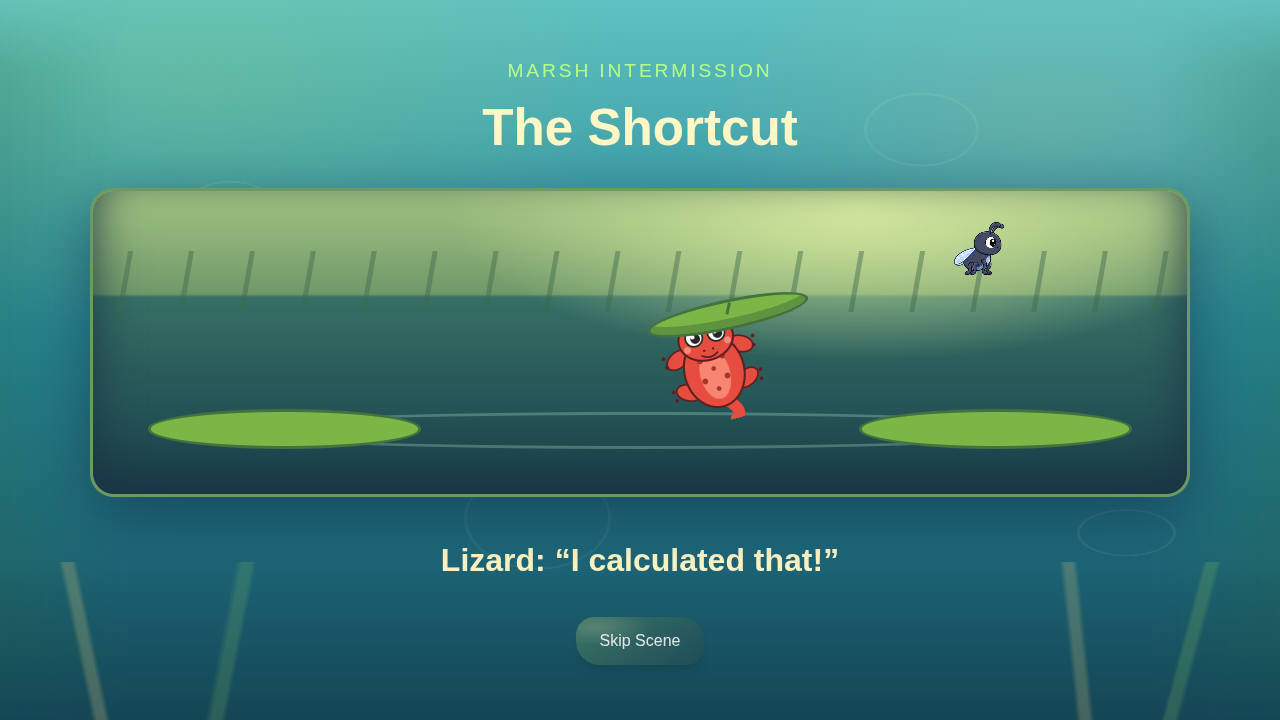
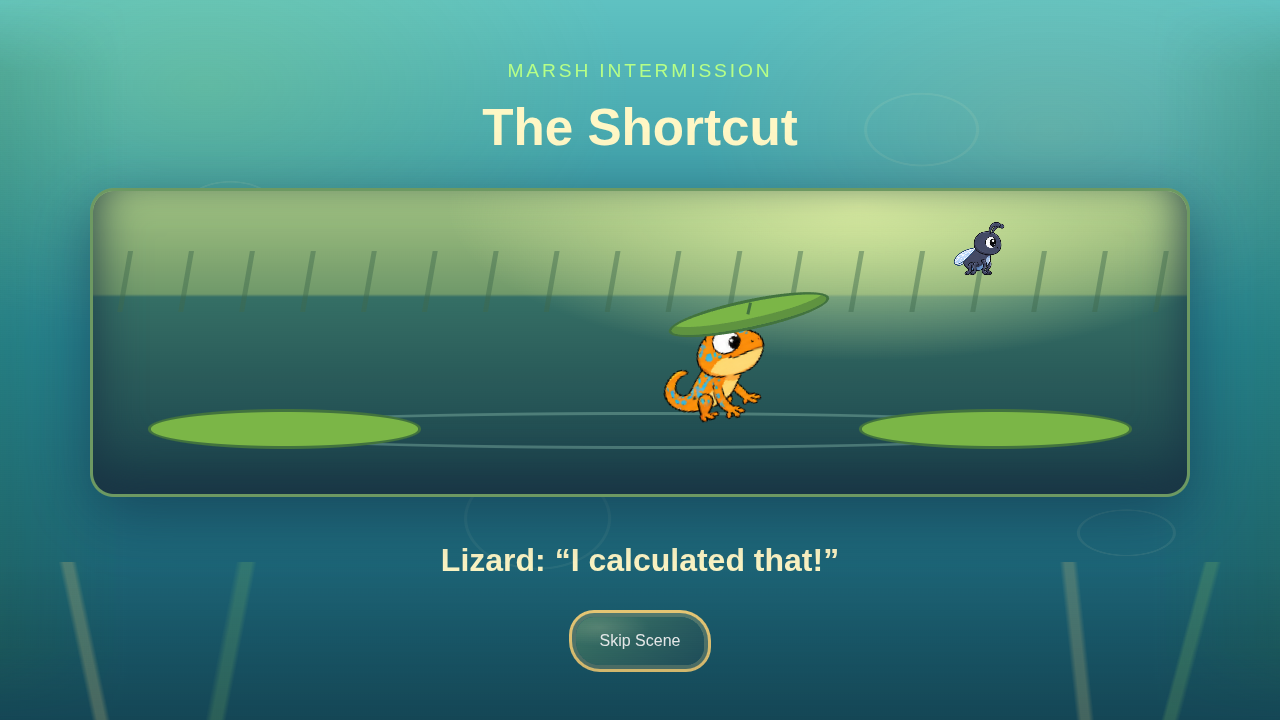
Use gameplay Lizard sprite in skits and remove obsolete SVG

Changed region(s): [[0.5, 0.3972, 0.6562, 0.5806], [0.4375, 0.825, 0.5625, 0.9472]]

diff --git a/src/ui/screens/skitScreen.ts b/src/ui/screens/skitScreen.ts
@@ -1,5 +1,5 @@
 import spiderImage from '../../assets/images/spider.png';
-import lizardImage from '../../assets/images/lizard.svg';
+import lizardWalkSide from '../../assets/lizard-walk-side.png';
 import type { AdditionalSkitPresentation } from '../../ecs/additionalSkits';
 import flySide from '../../assets/images/fly-move-side.png';
 import frogSide from '../../assets/images/frog-hop-side.png';
@@ -24,7 +24,7 @@ export const createSkitScreenSpec = function(skip: () => void): ScreenSpec {
 						<div id="scene-diagram" class="scene-diagram">↑<br>← ● →</div>
 						<div id="scene-tongue" class="skit-tongue"></div>
 						<div id="scene-frog" class="scene-actor scene-frog" style="background-image:url('${frogSide}')"></div>
-						<div id="scene-lizard" class="scene-actor" style="background-image:url('${lizardImage}')"></div>
+						<div id="scene-lizard" class="scene-actor scene-lizard" style="background-image:url('${lizardWalkSide}')"></div>
 						<div id="scene-spider" class="scene-actor" style="background-image:url('${spiderImage}')"></div>
 						<div id="scene-fly" class="scene-actor scene-fly" style="background-image:url('${flySide}')"></div>
 						<div id="scene-pad" class="skit-pad"></div><div id="scene-splash" class="scene-splash">SPLASH!</div>
@@ -130,7 +130,10 @@ const updateAdditionalScene = function(root: HTMLElement, view: AdditionalSkitPr
 	if (root.dataset.scene === 'the-shortcut' && view.lizard.visible && view.pad.tilt < 0) {
 		const lizard = root.querySelector<HTMLElement>('#scene-lizard');
 		const pad = root.querySelector<HTMLElement>('#scene-pad');
-		if (lizard && pad) pad.style.top = `${lizard.offsetTop - lizard.offsetWidth * .8}px`;
+		if (lizard && pad) {
+			pad.style.left = `${lizard.offsetLeft + lizard.offsetWidth * .18}px`;
+			pad.style.top = `${lizard.offsetTop - lizard.offsetWidth * .8}px`;
+		}
 	}
 	const caption = root.querySelector('#skit-caption');
 	if (caption && caption.textContent !== view.caption) caption.textContent = view.caption;

diff --git a/src/ecs/assets.ts b/src/ecs/assets.ts
@@ -5,7 +5,6 @@ import flyMoveToward from '../assets/images/fly-move-toward.png';
 import flyTurnTowardSide from '../assets/images/fly-turn-toward-side.png';
 import flyTurnSideAway from '../assets/images/fly-turn-side-away.png';
 import frogImage from '../assets/images/frog.svg';
-import lizardImage from '../assets/images/lizard.svg';
 import spiderImage from '../assets/images/spider.png';
 import lizardWalkAway from '../assets/lizard-walk-away.png';
 import lizardWalkSide from '../assets/lizard-walk-side.png';
@@ -33,7 +32,6 @@ export {
   flyMoveSide,
   flyMoveToward,
   frogImage,
-  lizardImage,
   spiderImage,
   lizardWalkAway,
   lizardWalkSide,
@@ -64,7 +62,6 @@ const IMAGE_ASSETS = {
   flyMoveSide,
   flyMoveToward,
   frogImage,
-  lizardImage,
   spiderImage,
   lizardWalkAway,
   lizardWalkSide,
@@ -123,7 +120,6 @@ export const configureImageAssets: ImageAssetConfigurator = function configureIm
     .addWithConfig('flyTurnTowardSide', imageAsset(flyTurnTowardSide))
     .addWithConfig('flyTurnSideAway', imageAsset(flyTurnSideAway))
     .addWithConfig('frogImage', imageAsset(frogImage))
-    .addWithConfig('lizardImage', imageAsset(lizardImage))
     .addWithConfig('spiderImage', imageAsset(spiderImage))
     .addWithConfig('lizardWalkAway', imageAsset(lizardWalkAway))
     .addWithConfig('lizardWalkSide', imageAsset(lizardWalkSide))

diff --git a/src/config.ts b/src/config.ts
@@ -1,4 +1,4 @@
-import lizardImage from './assets/images/lizard.svg';
+import lizardWalkToward from './assets/lizard-walk-toward.png';
 import spiderImage from './assets/images/spider.png';
 import frogImage from './assets/images/frog.svg';
 
@@ -62,7 +62,7 @@ export const GAME_CONFIG = {
   ENEMY_TYPES: {
     lizard: {
       COLOR: 'red',
-      IMAGE: lizardImage,
+      IMAGE: lizardWalkToward,
       MOVE_SPEED_MULTIPLIER: 1.0,
       AI_BEHAVIORS: ['chase', 'patrol', 'random', 'guard'] as const,
     },

diff --git a/src/ui/styles/skit.css b/src/ui/styles/skit.css
@@ -51,3 +51,4 @@
 .scene-pluck { position: absolute; left: 64%; top: 40%; width: 8%; height: 10%; border-left: 4px solid #3e241c; border-bottom: 4px solid #3e241c; transform: rotate(-25deg); z-index: 2; }
 
 .skit-stage { container-type: size; }
+.scene-lizard { background-size: 800% 100%; background-position: 0 0; }

diff --git a/docs/skit-expansion/README.md b/docs/skit-expansion/README.md
@@ -2,7 +2,7 @@
 
 Implements issues #17, #18, and #19, authorized by the owner's request to execute the open skit tasks on 2026-10-04. Uses the proposed placements: The Shortcut after level 6, Do Not Disturb after level 9, Dinner Committee after level 12. Snack Break remains after level 3; no repeats beyond level 12.
 
-The existing scene registry, screen clock, recovery hooks, next-level routing, and gallery support are reused. No caller signature or saved-data format changes: existing Snack Break unlocks are retained, and new scene IDs use the existing validation and unlock paths. The gallery automatically lists the added scenes. Existing character art plus CSS props suffice; no generated art, new scheduler, audio, or framework escape hatch was needed.
+The existing scene registry, screen clock, recovery hooks, next-level routing, and gallery support are reused. No caller signature or saved-data format changes: existing Snack Break unlocks are retained, and new scene IDs use the existing validation and unlock paths. The gallery automatically lists the added scenes. Owner correction: removed the obsolete `images/lizard.svg` and its unused asset registration; the skits use the same eight-frame `lizard-walk-side.png` sheet as gameplay, and the configured default image uses `lizard-walk-toward.png`. The hat is aligned to the corrected side-view head. Existing character art plus CSS props suffice; no generated art, new scheduler, audio, or framework escape hatch was needed.
 
 All scenes last 12 seconds, tell their stories with audio muted, and retain the existing Select/Back/Pause/button skip routes. Reduced motion removes Lizard's jump arc/tilt, Spider's vigorous bounce, and the ensemble collision shake while preserving actions and captions. Tongue and hat positions track actual sprite geometry.
 
@@ -13,7 +13,7 @@ All scenes last 12 seconds, tell their stories with audio muted, and retain the 
 - Independent review identified and resolved hat alignment, jump clipping, pluck visibility, diagram direction, and tongue endpoint geometry. Follow-up review found no remaining material issues.
 - Scripted browser lifecycle evidence is in [lifecycle-evidence.json](lifecycle-evidence.json): completed levels 3/6/9/12 select the expected scenes and continue to 4/7/10/13. Unscheduled 4/13 continue directly to 5/14. Time and solved totals remain 42/7 during intermissions. Five seconds under recovery retain scene ID and elapsed 4; resuming advances to 4.1.
 - Actual preview click on Skip Scene sets elapsed to 12 and reaches playing level 13. Keyboard and physical-controller skip behavior use existing unchanged input handling; they were not tested on physical hardware.
-- Screenshots below show the hat, second pluck, and pad catch. At 1280×800, 1280×720, 390×844, and short landscape 844×390, no horizontal overflow occurred and Skip Scene remained within the viewport. The first three sizes have saved screenshots. A local recording captures all three complete scenes and their next-level transitions for owner timing review.
+- Screenshots below show the hat, second pluck, and pad catch. At 1280×800, 1280×720, 390×844, and short landscape 844×390, no horizontal overflow occurred and Skip Scene remained within the viewport. The first three sizes have saved screenshots. The earlier local timing recording uses the obsolete Lizard graphic; the updated screenshots below supersede its artwork.
 - Browser scenarios were driven through a temporary engine hook and controlled ECS ticks, not manual gameplay. The hook was removed before final checks. No browser-emulated layout establishes real TV, Deck, or phone hardware acceptance.
 - Task dev server stopped; port 3000 verified free. Recording stopped and preview navigated away.
 
@@ -27,4 +27,4 @@ All scenes last 12 seconds, tell their stories with audio muted, and retain the 
 
 ## Owner acceptance
 
-Needs Owner Input: review timing and visual gags before merge, as required by the tickets. Recommendation: retain the proposed 6/9/12 placements and the current pacing; any desired choreography refinement can be made before delivery. The PR is left open pending that creative acceptance even though master requires the CI check containing lint, tests, typechecking, and build.
+Needs Owner Input: review timing and visual gags before merge, as required by the tickets. The owner requested that PR #21 remain open for closer scene evaluation. Recommendation: retain the proposed 6/9/12 placements and the current pacing; any desired choreography refinement can be made before delivery. The PR is left open pending that creative acceptance even though master requires the CI check containing lint, tests, typechecking, and build.
